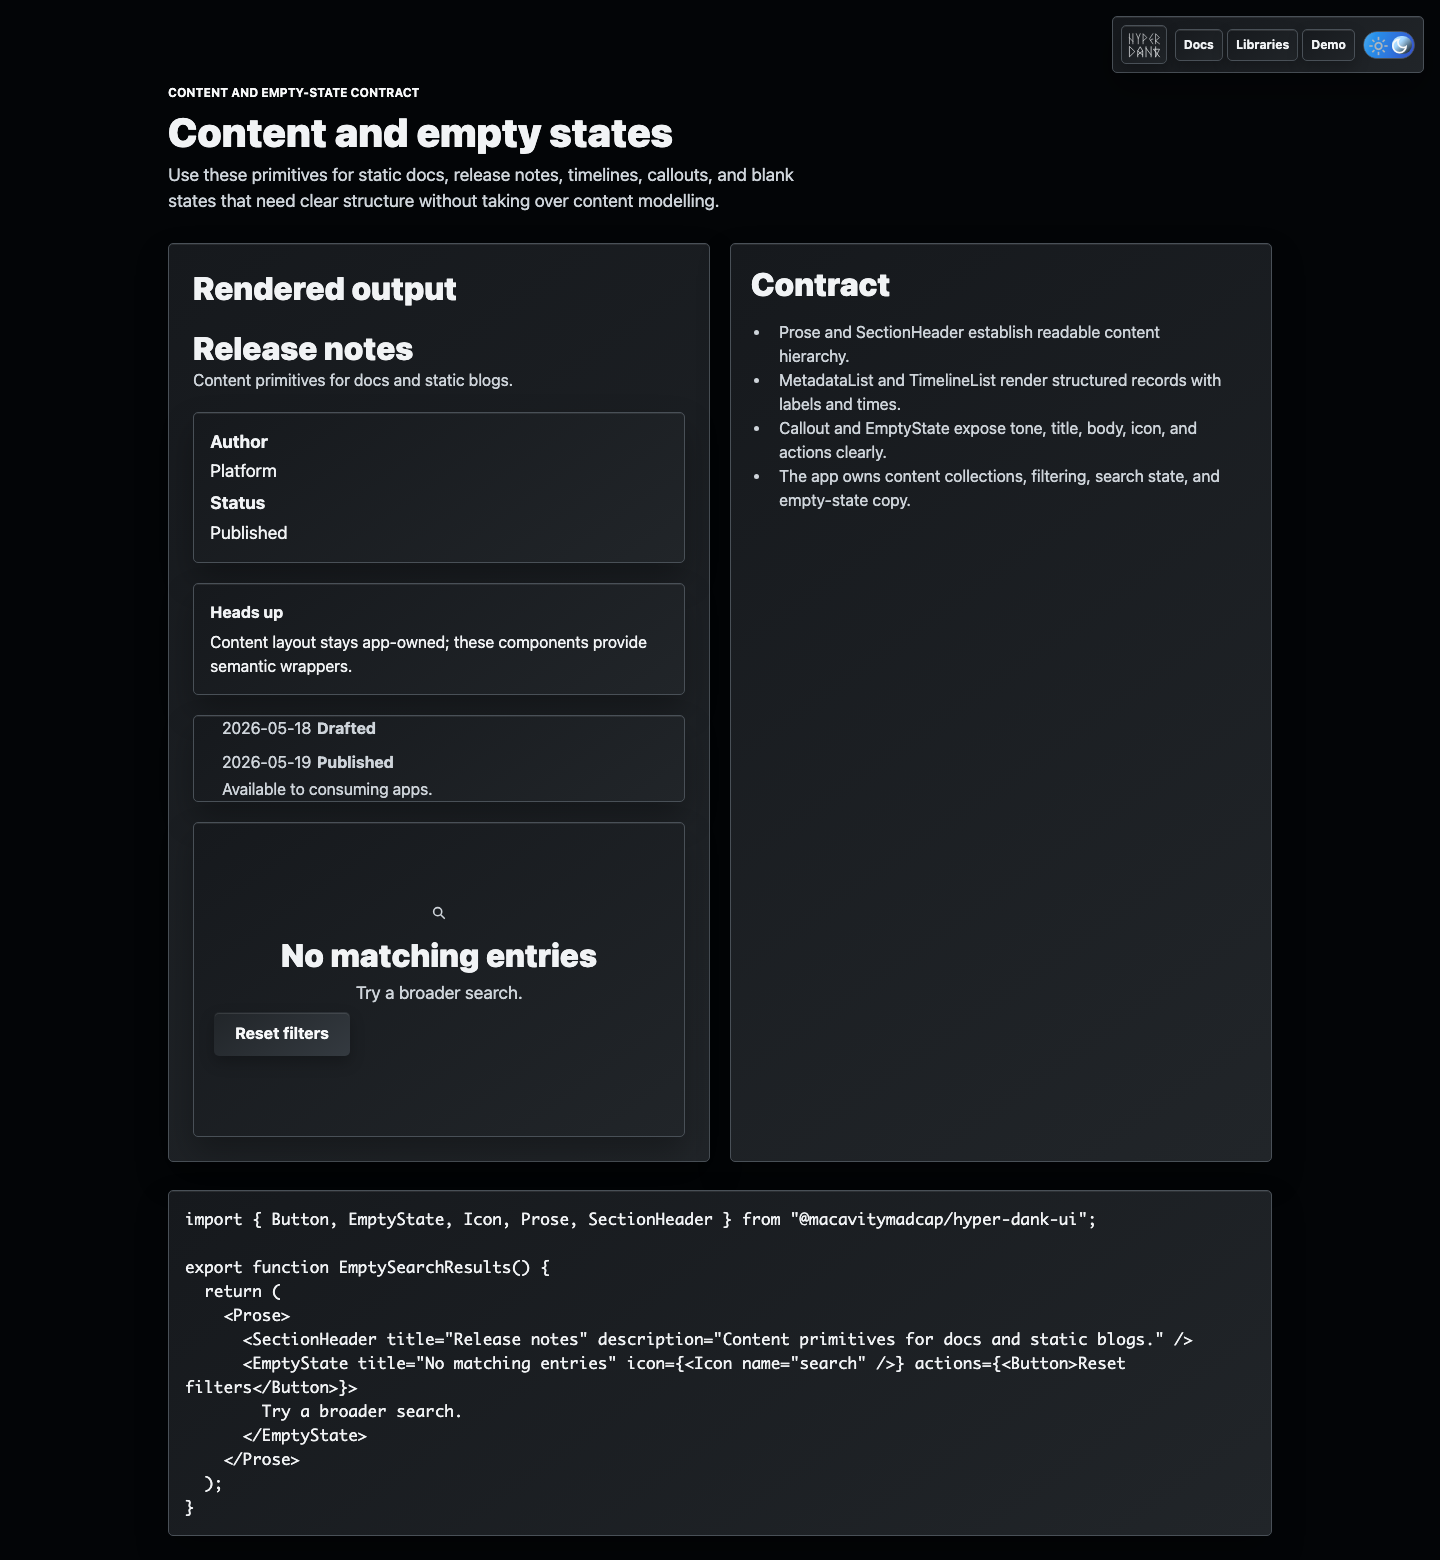
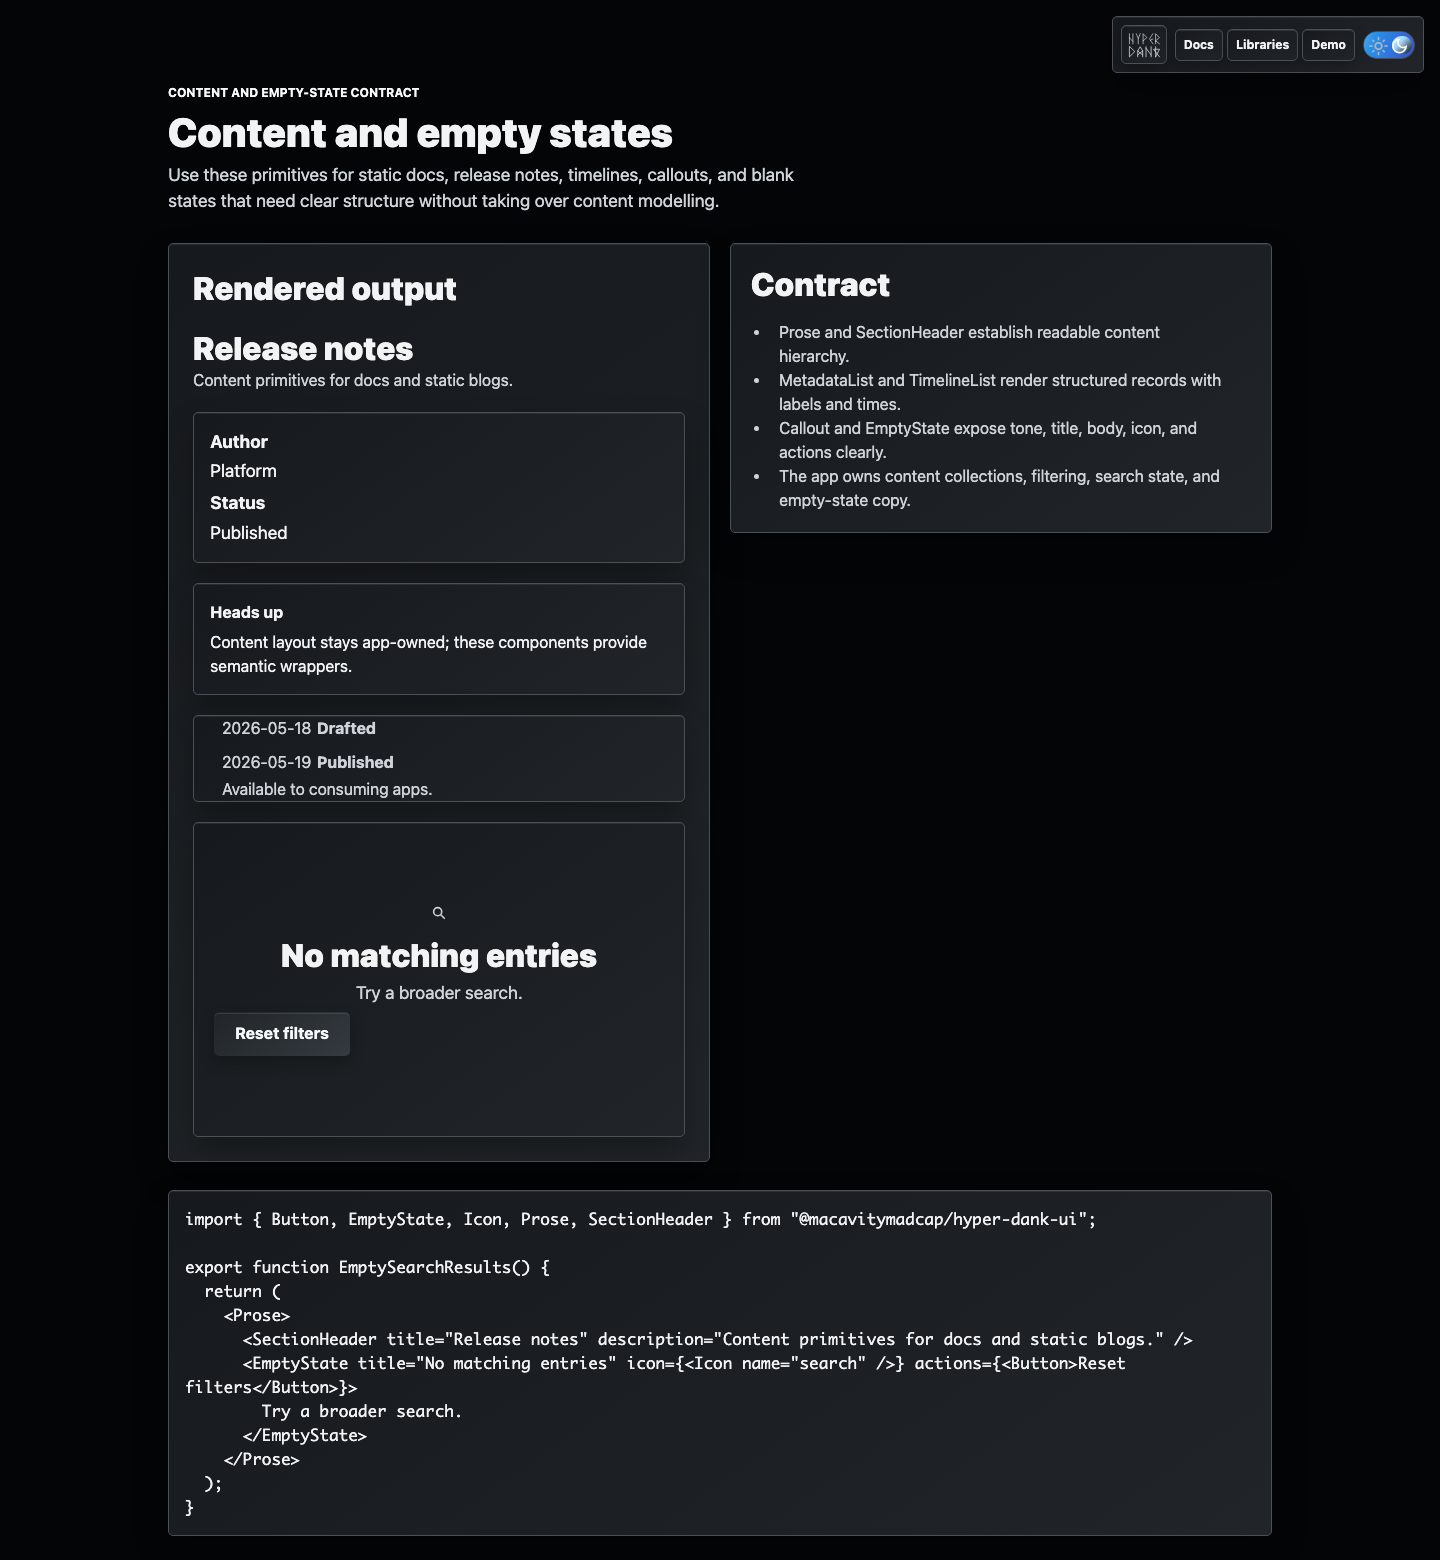
fix(ui): compact Storybook feedback panels

Changed region(s): [[0.5, 0.3385, 0.9062, 0.7692]]

diff --git a/libs/components/src/stories/second-wave-primitives.stories.tsx b/libs/components/src/stories/second-wave-primitives.stories.tsx
@@ -63,7 +63,7 @@ export const ShellNavigationAndFeedback: Story = {
             feedback, paging, and compact operational metrics.
           </p>
         </div>
-        <div class="storybook-doc__grid">
+        <div class="storybook-doc__grid storybook-doc__grid--start">
           <div class="storybook-doc__section storybook-doc__section--roomy">
             <h2 id="shell-preview-heading">Rendered output</h2>
             <AppShell
@@ -404,7 +404,7 @@ export const ContentAndEmptyStates: Story = {
             states that need clear structure without taking over content modelling.
           </p>
         </header>
-        <div class="storybook-doc__grid">
+        <div class="storybook-doc__grid storybook-doc__grid--start">
           <section
             class="storybook-doc__section storybook-doc__section--roomy"
             aria-labelledby="content-preview-heading"

diff --git a/.storybook/storybook.css b/.storybook/storybook.css
@@ -392,6 +392,10 @@ body {
   grid-template-columns: repeat(2, minmax(0, 1fr));
 }
 
+.storybook-doc__grid--start {
+  align-items: start;
+}
+
 .storybook-doc__section {
   display: grid;
   align-content: start;
